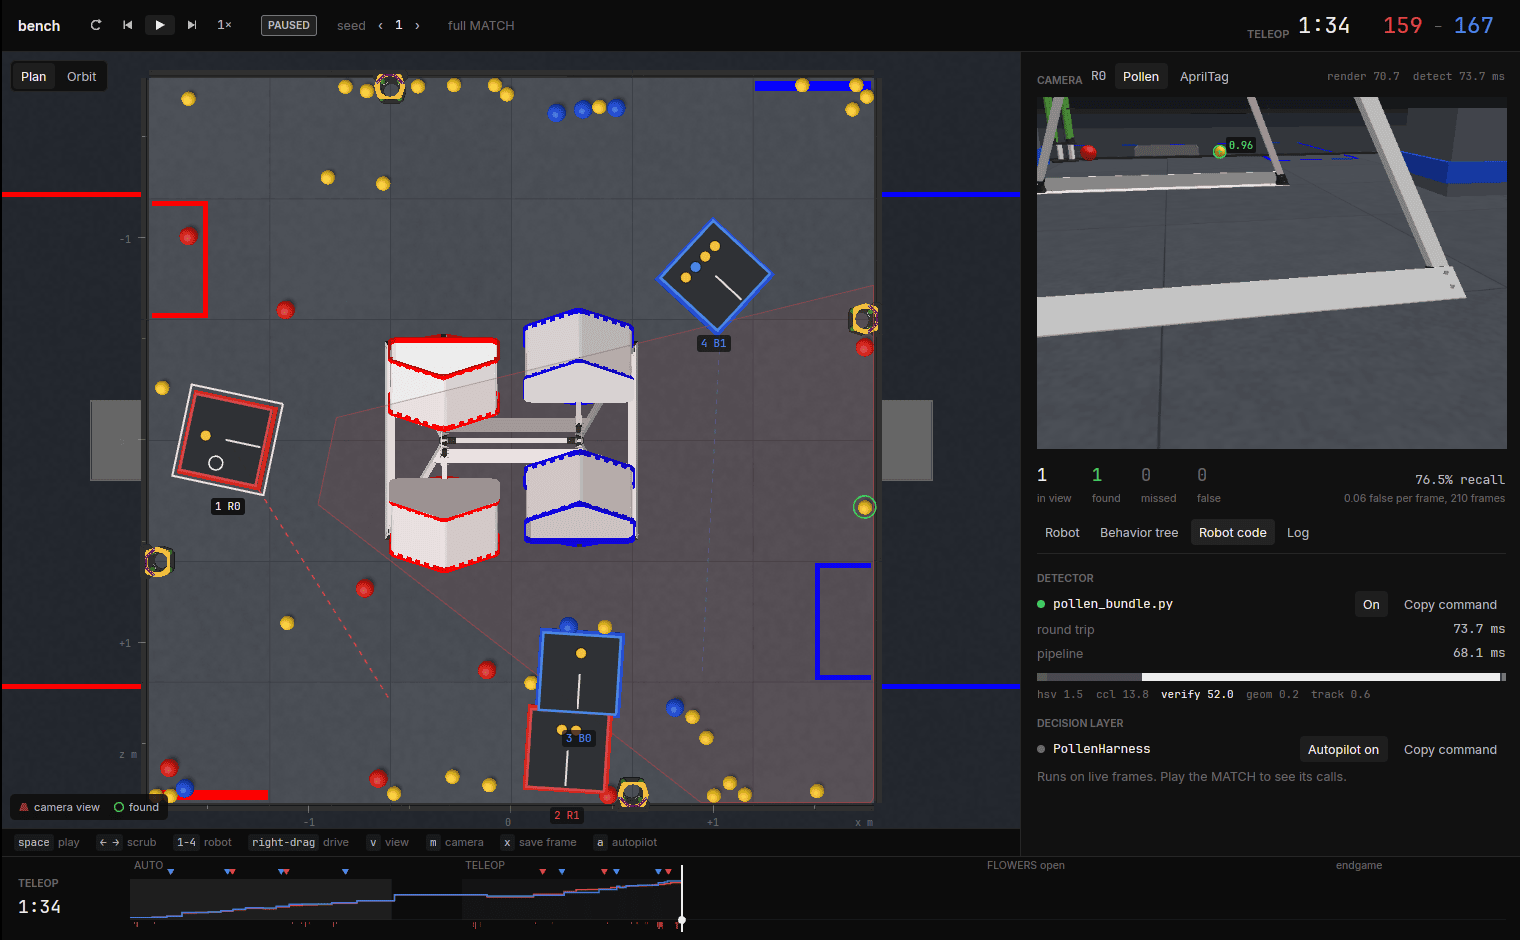
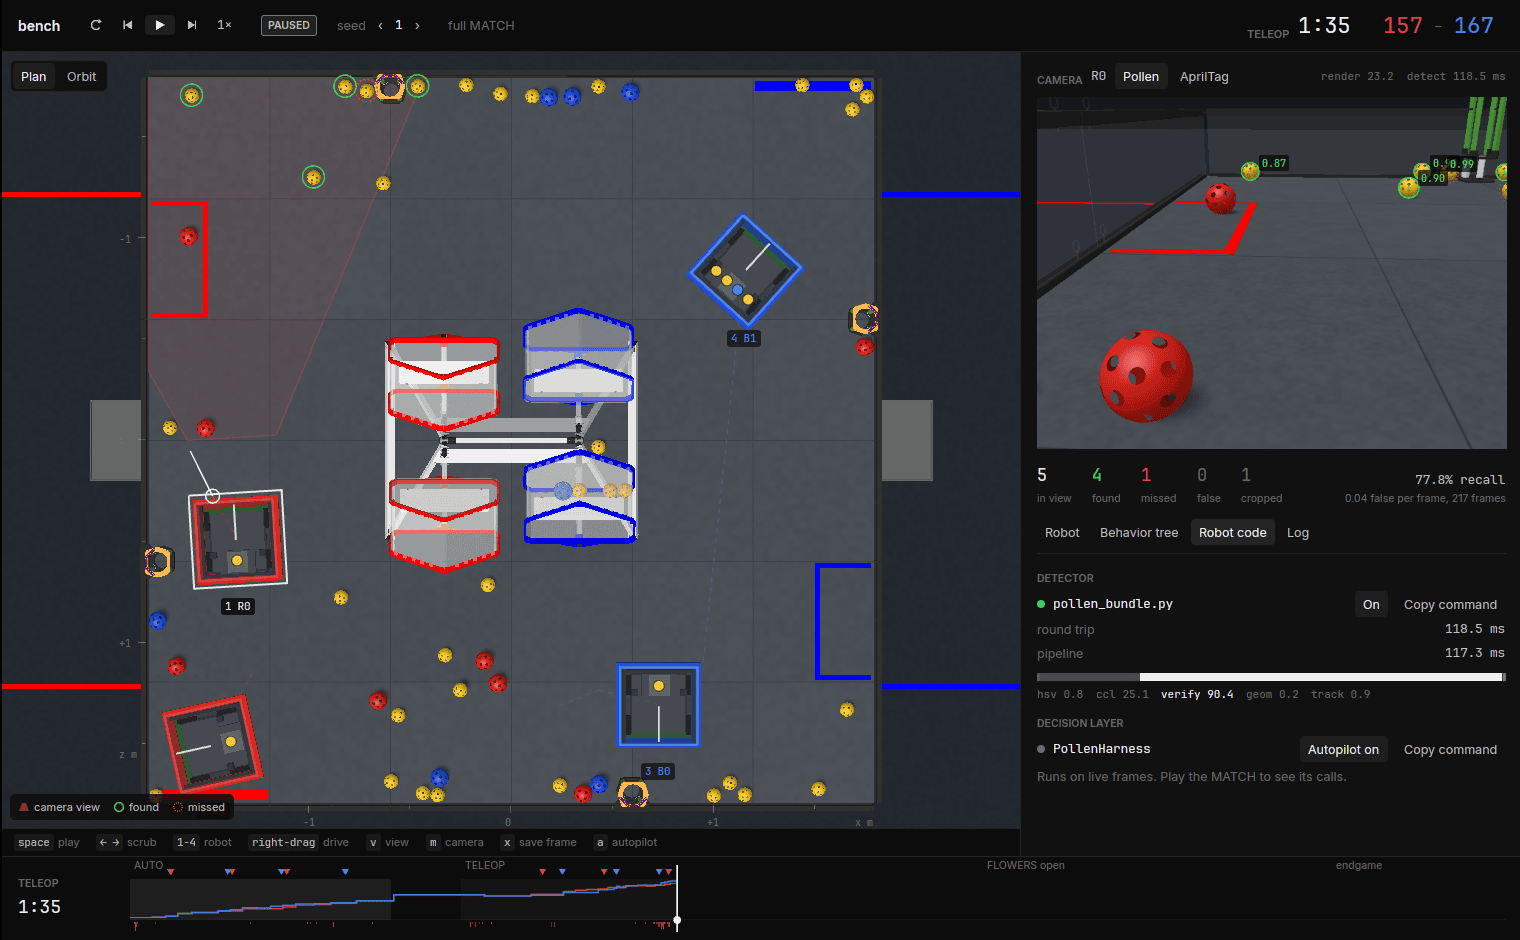
Don't count detections on cut-off balls as false

diff --git a/bench/crates/app/src/camera.rs b/bench/crates/app/src/camera.rs
@@ -414,10 +414,16 @@ pub fn camera_of(state: &State, field: &FieldInfo, optics: &Optics, kind: MountK
 
 /// True for a label the detector is meant to report: floor POLLEN, mostly visible, in range, and not in a FLOWER.
 pub fn is_target(l: &BallLabel, field: &FieldInfo) -> bool {
+    floor_pollen(l, field) && l.in_image >= 0.5
+}
+
+/// Floor POLLEN the detector may report, whether or not most of it is in the image. A detection on one that is mostly
+/// cut off by the image edge is neither a hit nor a false detection.
+fn floor_pollen(l: &BallLabel, field: &FieldInfo) -> bool {
     let on_floor = l.world.y < field.pollen_radius + 0.03;
     let hs = field.flower_half_size;
     let in_flower = field.flowers.iter().any(|f| (l.world.x - f.x).abs() < hs && (l.world.z - f.z).abs() < hs);
-    l.kind == BallKind::Pollen && on_floor && !in_flower && l.visible >= 0.5 && l.in_image >= 0.5 && l.range <= MAX_RANGE
+    l.kind == BallKind::Pollen && on_floor && !in_flower && l.visible >= 0.5 && l.range <= MAX_RANGE
 }
 
 /// A perfect detector: the `llpython` the PROTOCOL says the camera would send for these labels.
@@ -478,7 +484,7 @@ fn score(labels: &[BallLabel], rows: &[LlRow], field: &FieldInfo) -> (Counts, Ve
             }
         }
     }
-    k.false_pos = det_to.iter().filter(|m| m.is_none_or(|l| !is_target(&labels[l], field))).count() as u32;
+    k.false_pos = det_to.iter().filter(|m| m.is_none_or(|l| !floor_pollen(&labels[l], field))).count() as u32;
     (k, calls, det_to)
 }
 
@@ -662,19 +668,20 @@ fn frame(
     let mut tags = Vec::new();
     for (row, m) in rows.iter().zip(&det_to) {
         let good = m.is_some_and(|l| is_target(&out.labels[l], field));
+        let cropped = !good && m.is_some_and(|l| floor_pollen(&out.labels[l], field));
         let held = row.robot_adjacent();
-        let (col, alpha) = match (good, held) {
+        let (col, alpha) = match (good, cropped || held) {
             (true, _) => (GREEN, 1.0),
             (false, true) => (TEXT, 0.6),
             (false, false) => (RED, 1.0),
         };
         overlay.push(Prim::Circle { at: [row.cx, row.cy, row.r], col, alpha, dashed: false, width: if real { 1.5 } else { 1.0 } });
         if real {
-            let what = if held { "held" } else if good { "" } else { "false" };
+            let what = if held { "held" } else if good { "" } else if cropped { "cropped" } else { "false" };
             tags.push(([row.cx + row.r * 0.7 + 3.0, row.cy - row.r * 0.7 - 14.0], format!("{:.2} {what}", row.conf).trim().to_string(), col));
         }
         overlay.push(Prim::Cross { at: [row.cx, row.cy], size: 3.0, col });
-        if !good && !held {
+        if !good && !held && !cropped {
             if let Some(g) = row.ground {
                 false_ground.push(frames::from_field(g));
             }
@@ -751,5 +758,47 @@ pub fn paint_overlay(b: Bounds<Pixels>, scale: f32, prims: &[Prim], window: &mut
                 stroke(window, &[tp(*x, *y - size), tp(*x, *y + size)], c(*col), 1.0);
             }
         }
+    }
+}
+
+#[cfg(test)]
+mod tests {
+    use super::*;
+
+    fn field() -> FieldInfo {
+        serde_json::from_value(serde_json::json!({
+            "half": 1.7929, "pollenRadius": 0.03556, "nectarRadius": 0.04572, "flowerHalfSize": 0.0847,
+            "flowers": [], "hive": { "tiltLimit": std::f32::consts::FRAC_PI_6 }, "robots": []
+        }))
+        .unwrap()
+    }
+
+    fn pollen(id: u32, center: [f32; 2], in_image: f32) -> BallLabel {
+        BallLabel {
+            id,
+            kind: BallKind::Pollen,
+            center,
+            radius: 12.0,
+            bbox: [center[0] - 12.0, center[1] - 12.0, center[0] + 12.0, center[1] + 12.0],
+            range: 1.0,
+            visible: 1.0,
+            in_image,
+            pixels: 400,
+            world: Vec3::new(0.0, 0.0356, 0.0),
+        }
+    }
+
+    fn row(cx: f32, cy: f32) -> LlRow {
+        LlRow { cls: 0, cx, cy, r: 12.0, conf: 0.9, ground: None }
+    }
+
+    #[test]
+    fn a_detection_on_a_cut_off_ball_is_neither_found_nor_false() {
+        let f = field();
+        let labels = [pollen(1, [100.0, 100.0], 1.0), pollen(2, [630.0, 478.0], 0.3)];
+        let (k, calls, _) = score(&labels, &[row(101.0, 100.0), row(629.0, 477.0), row(300.0, 300.0)], &f);
+        assert_eq!((k.targets, k.found, k.missed), (1, 1, 0));
+        assert_eq!(k.false_pos, 1, "only the detection on nothing is false");
+        assert_eq!(calls.len(), 1);
     }
 }

diff --git a/bench/crates/app/src/field.rs b/bench/crates/app/src/field.rs
@@ -311,7 +311,7 @@ pub fn paint(p: &Proj, a: &Annotations, window: &mut Window) {
             let corners = robot_corners(r.x, r.z, r.heading, info.length, info.width);
             let pts: Vec<_> = corners.iter().filter_map(|q| p.screen(Vec3::new(q.0, info.height, q.1))).collect();
             if pts.len() == 4 {
-                path(window, &pts, ca(0x2a2d31, 0.92), None, true);
+                path(window, &pts, ca(0x2a2d31, 0.45), None, true);
                 let mut o = pts.clone();
                 o.push(o[0]);
                 path(window, &o, c(alliance(info.red())), Some(2.5), false);
